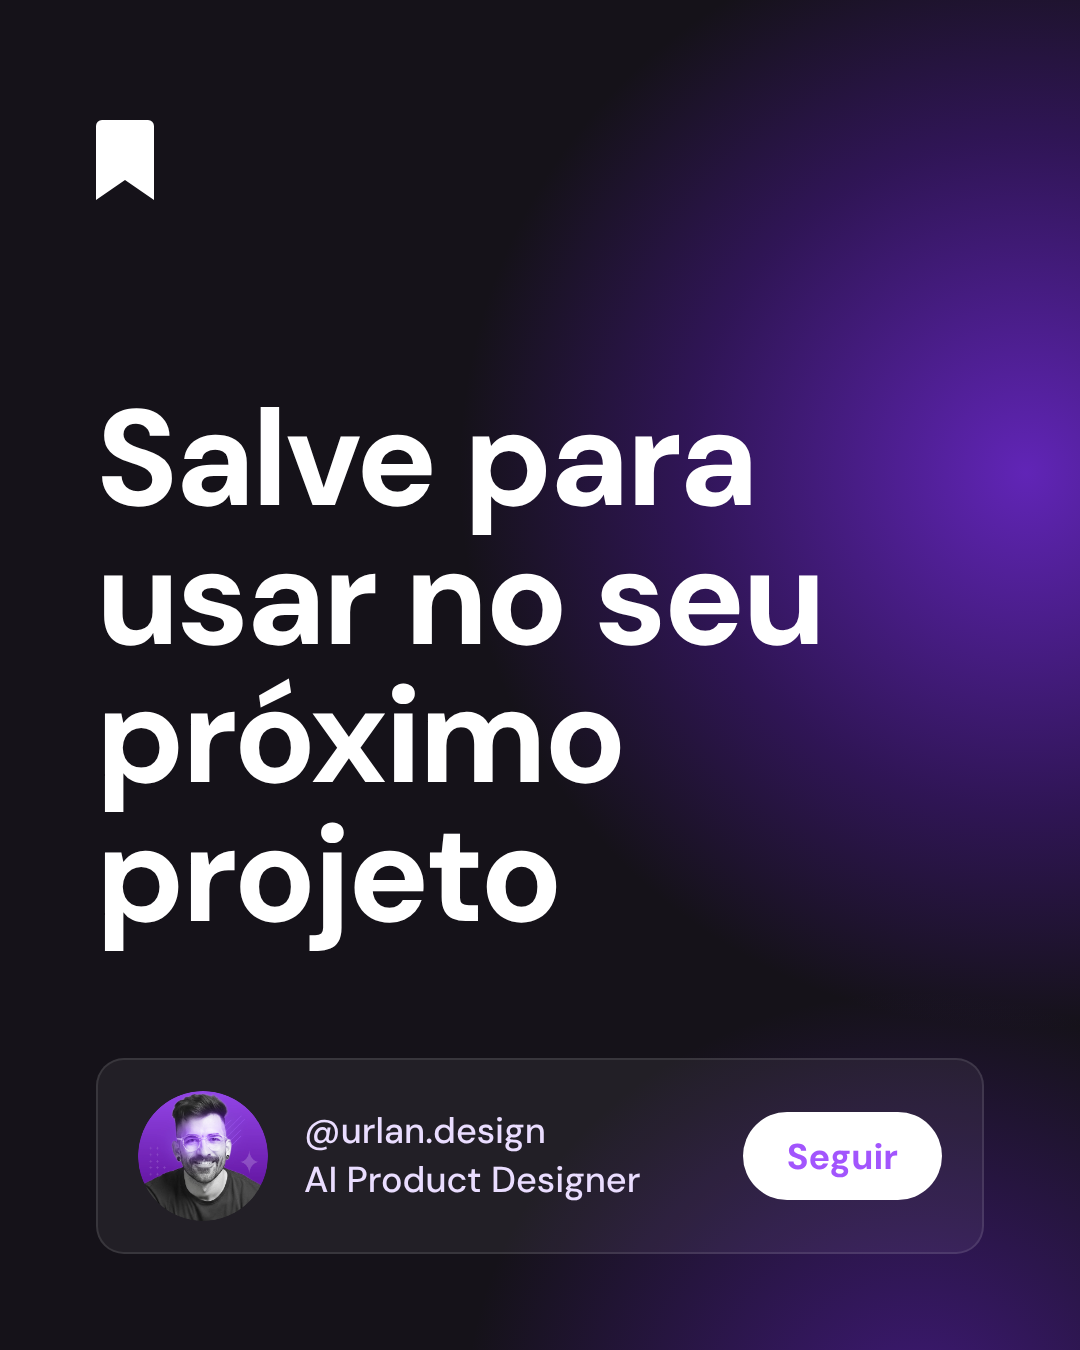
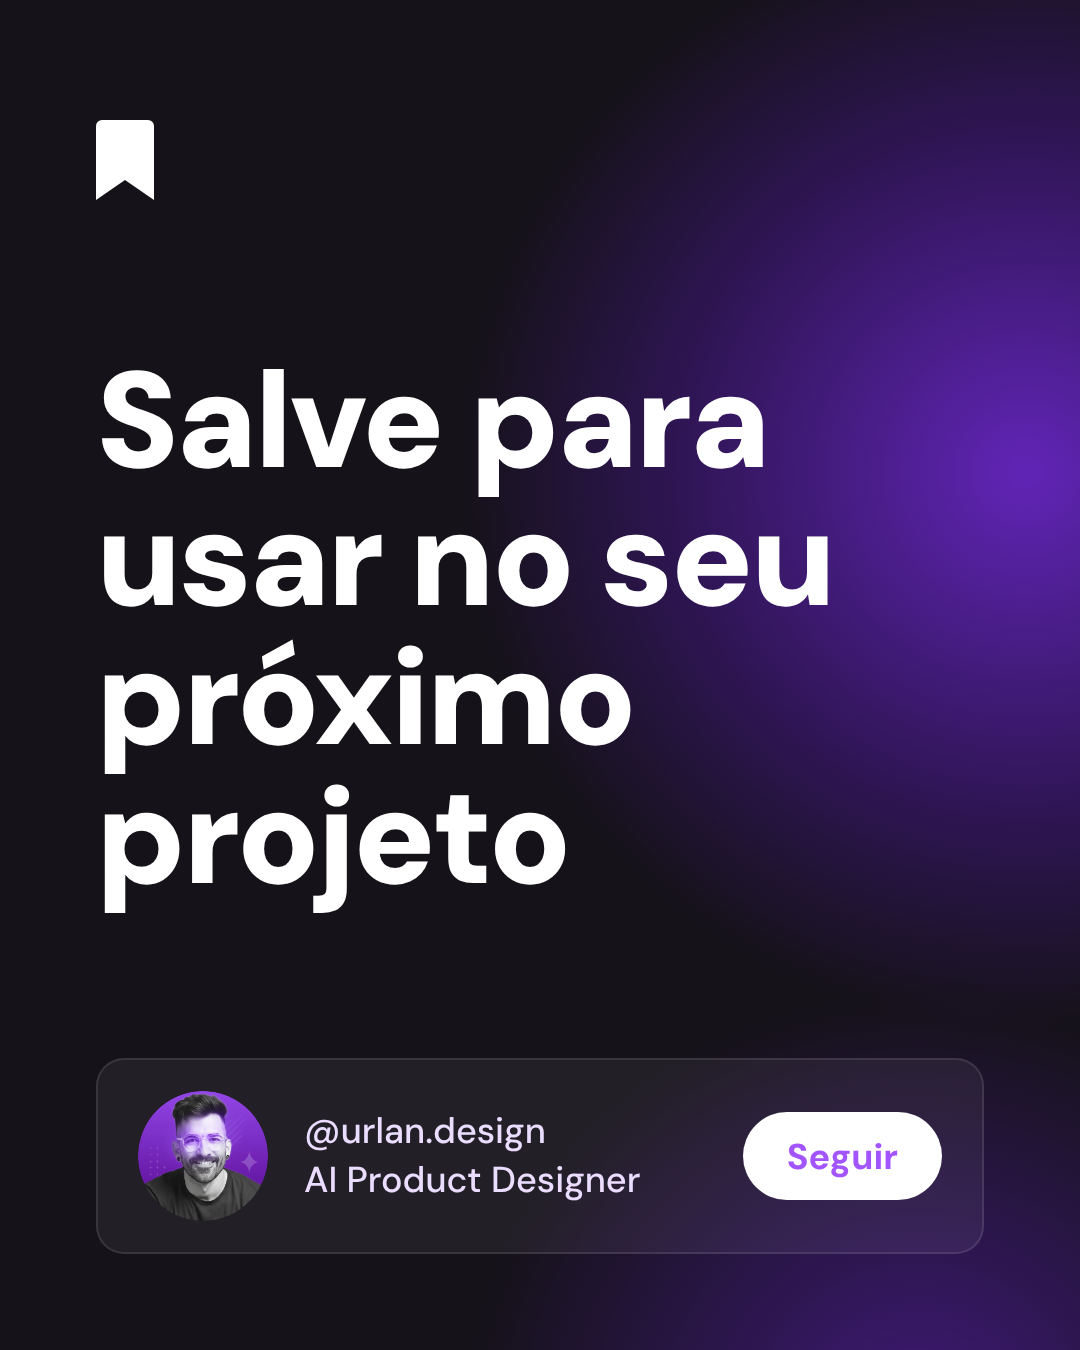
Duplas de cores: fechamento em DM Sans 900 e título centralizado
Claude-Session: https://claude.ai/code/session_01DwYVZ4p9qWAPLeHrrQbmUv

Changed region(s): [[0.0917, 0.2489, 0.7639, 0.7156]]

diff --git a/template/combos.py b/template/combos.py
@@ -15,7 +15,11 @@ e = html.escape
 FONTS = f"""
 @font-face{{font-family:'DM Sans';font-weight:500;src:url('{(F/'dm-sans-latin-500-normal.woff2').as_uri()}')}}
 @font-face{{font-family:'DM Sans';font-weight:700;src:url('{(F/'dm-sans-latin-700-normal.woff2').as_uri()}')}}
+@font-face{{font-family:'DM Sans';font-weight:800;src:url('{(F/'dm-sans-latin-800-normal.woff2').as_uri()}')}}
+@font-face{{font-family:'DM Sans';font-weight:900;src:url('{(F/'dm-sans-latin-900-normal.woff2').as_uri()}')}}
+@font-face{{font-family:'DM Sans';font-weight:900;src:url('{(F/'dm-sans-latin-ext-900-normal.woff2').as_uri()}');unicode-range:U+0100-02AF}}
 @font-face{{font-family:'DM Sans';font-weight:500;src:url('{(F/'dm-sans-latin-ext-500-normal.woff2').as_uri()}');unicode-range:U+0100-02AF}}
+@font-face{{font-family:'DM Sans';font-weight:800;src:url('{(F/'dm-sans-latin-ext-800-normal.woff2').as_uri()}');unicode-range:U+0100-02AF}}
 @font-face{{font-family:'DM Sans';font-weight:700;src:url('{(F/'dm-sans-latin-ext-700-normal.woff2').as_uri()}');unicode-range:U+0100-02AF}}
 html,body{{margin:0}}
 .s{{position:relative;width:1080px;height:1350px;overflow:hidden;font-family:'DM Sans',sans-serif}}
@@ -50,7 +54,9 @@ def closing(p):
     return f'''<div class="s" style="background:#151219">
   <div style="position:absolute;inset:0;background:radial-gradient(70% 55% at 95% 35%,rgba(110,40,210,.85),rgba(80,25,160,.45) 45%,rgba(21,18,25,0) 75%),radial-gradient(60% 45% at 85% 105%,rgba(90,30,180,.6),rgba(21,18,25,0) 70%)"></div>
   <svg style="position:absolute;left:96px;top:120px" width="58" height="80" viewBox="0 0 58 80"><path d="M6 0h46a6 6 0 0 1 6 6v74L29 60 0 80V6a6 6 0 0 1 6-6z" fill="#fff"/></svg>
-  <div style="position:absolute;left:96px;right:80px;top:390px;color:#fff;font-weight:700;font-size:136px;line-height:1.02;letter-spacing:-3px">{lines}</div>
+  <!-- título centralizado entre o ícone (base em 200px) e o card de perfil (topo em 1058px) -->
+  <div style="position:absolute;left:96px;right:80px;top:200px;height:858px;display:flex;align-items:center">
+    <div style="color:#fff;font-weight:{p["closing"].get("weight", 900)};font-size:136px;line-height:1.02;letter-spacing:-3px">{lines}</div></div>
   <div style="position:absolute;left:96px;right:96px;bottom:96px;height:196px;border-radius:28px;background:rgba(255,255,255,.06);border:2px solid rgba(255,255,255,.10);display:flex;align-items:center;padding:0 40px;gap:36px;box-sizing:border-box">
     <img src="{av}" style="width:130px;height:130px;border-radius:50%;object-fit:cover">
     <div style="flex:1;color:#EADDFF;font-weight:500;font-size:36px;line-height:1.35">@urlan.design<br>AI Product Designer</div>
